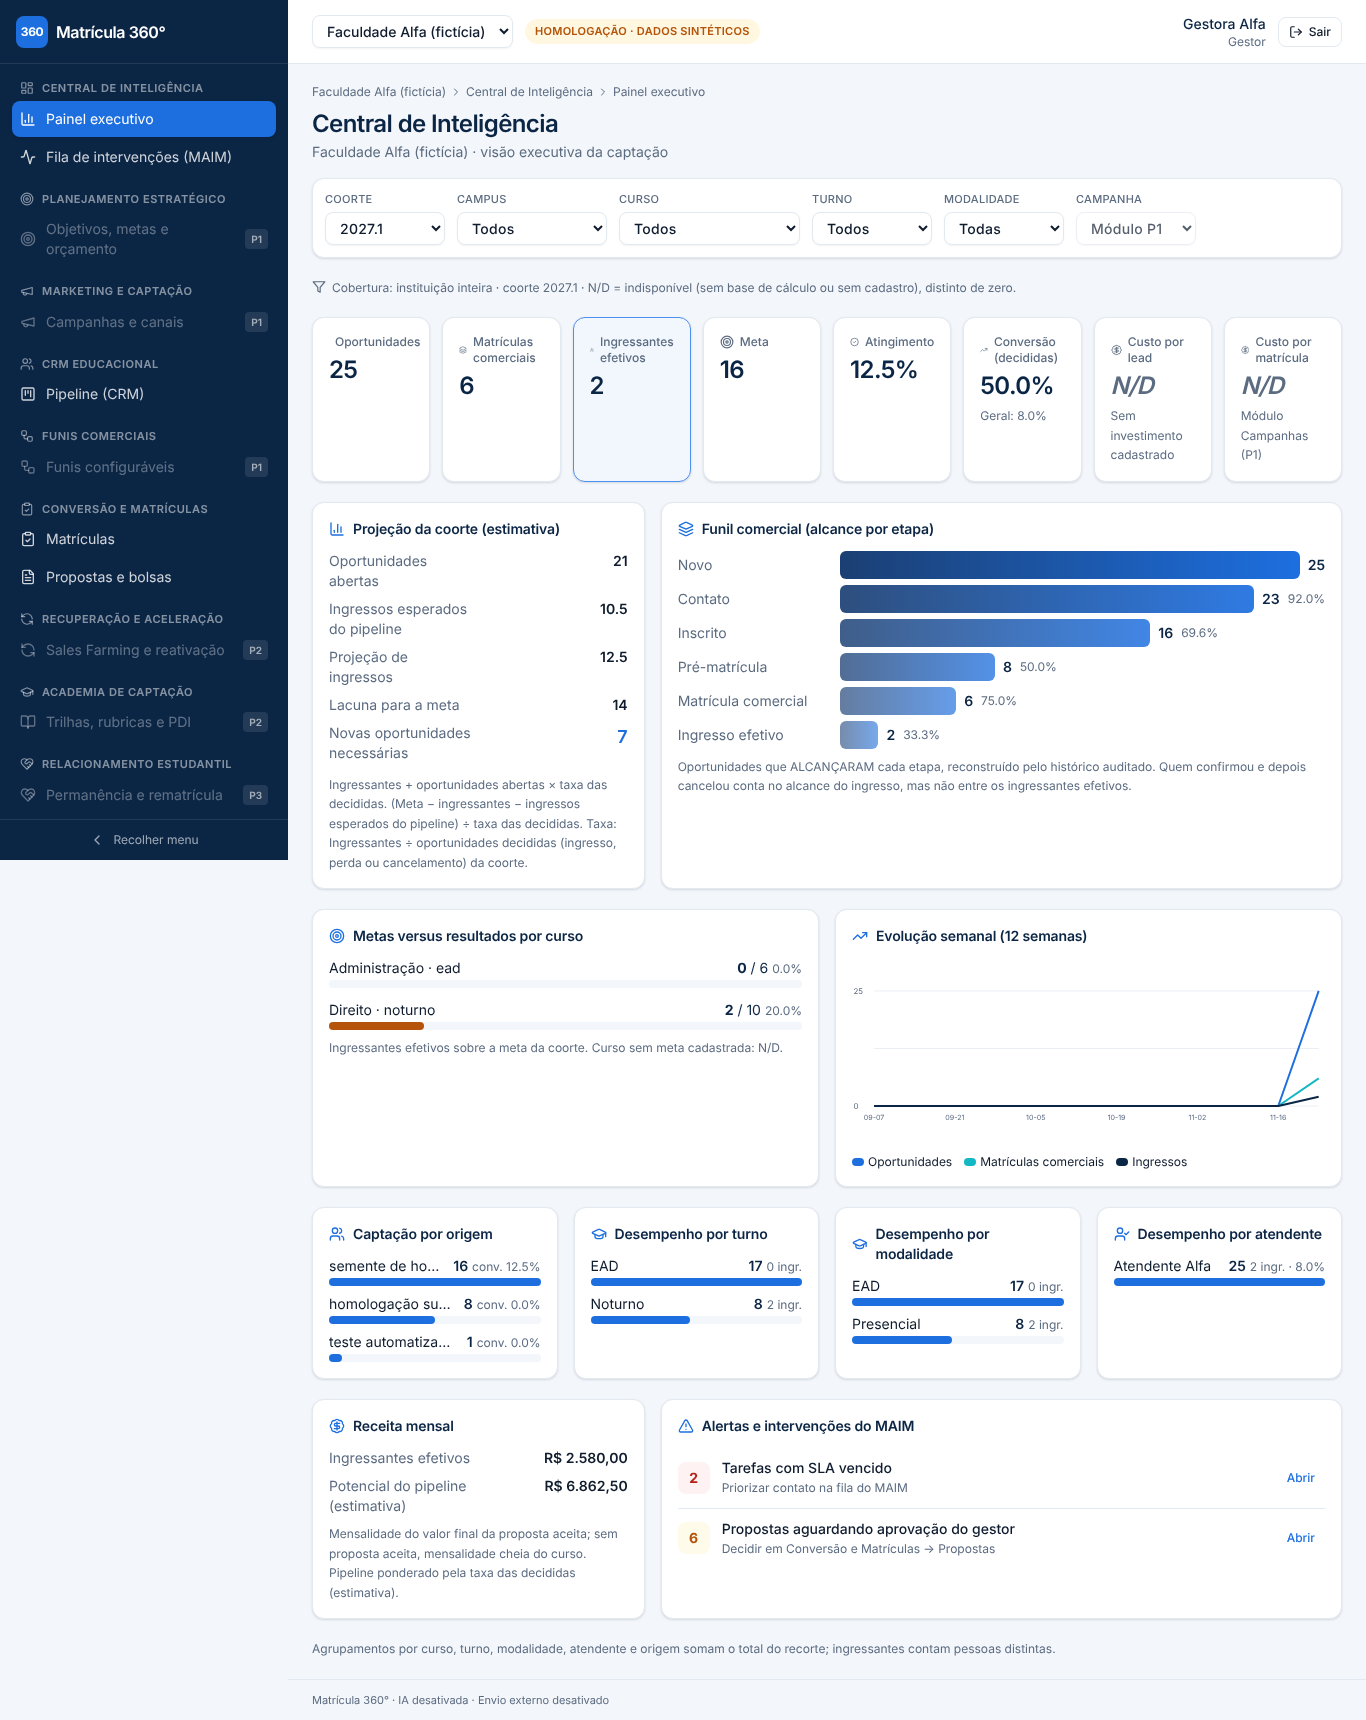
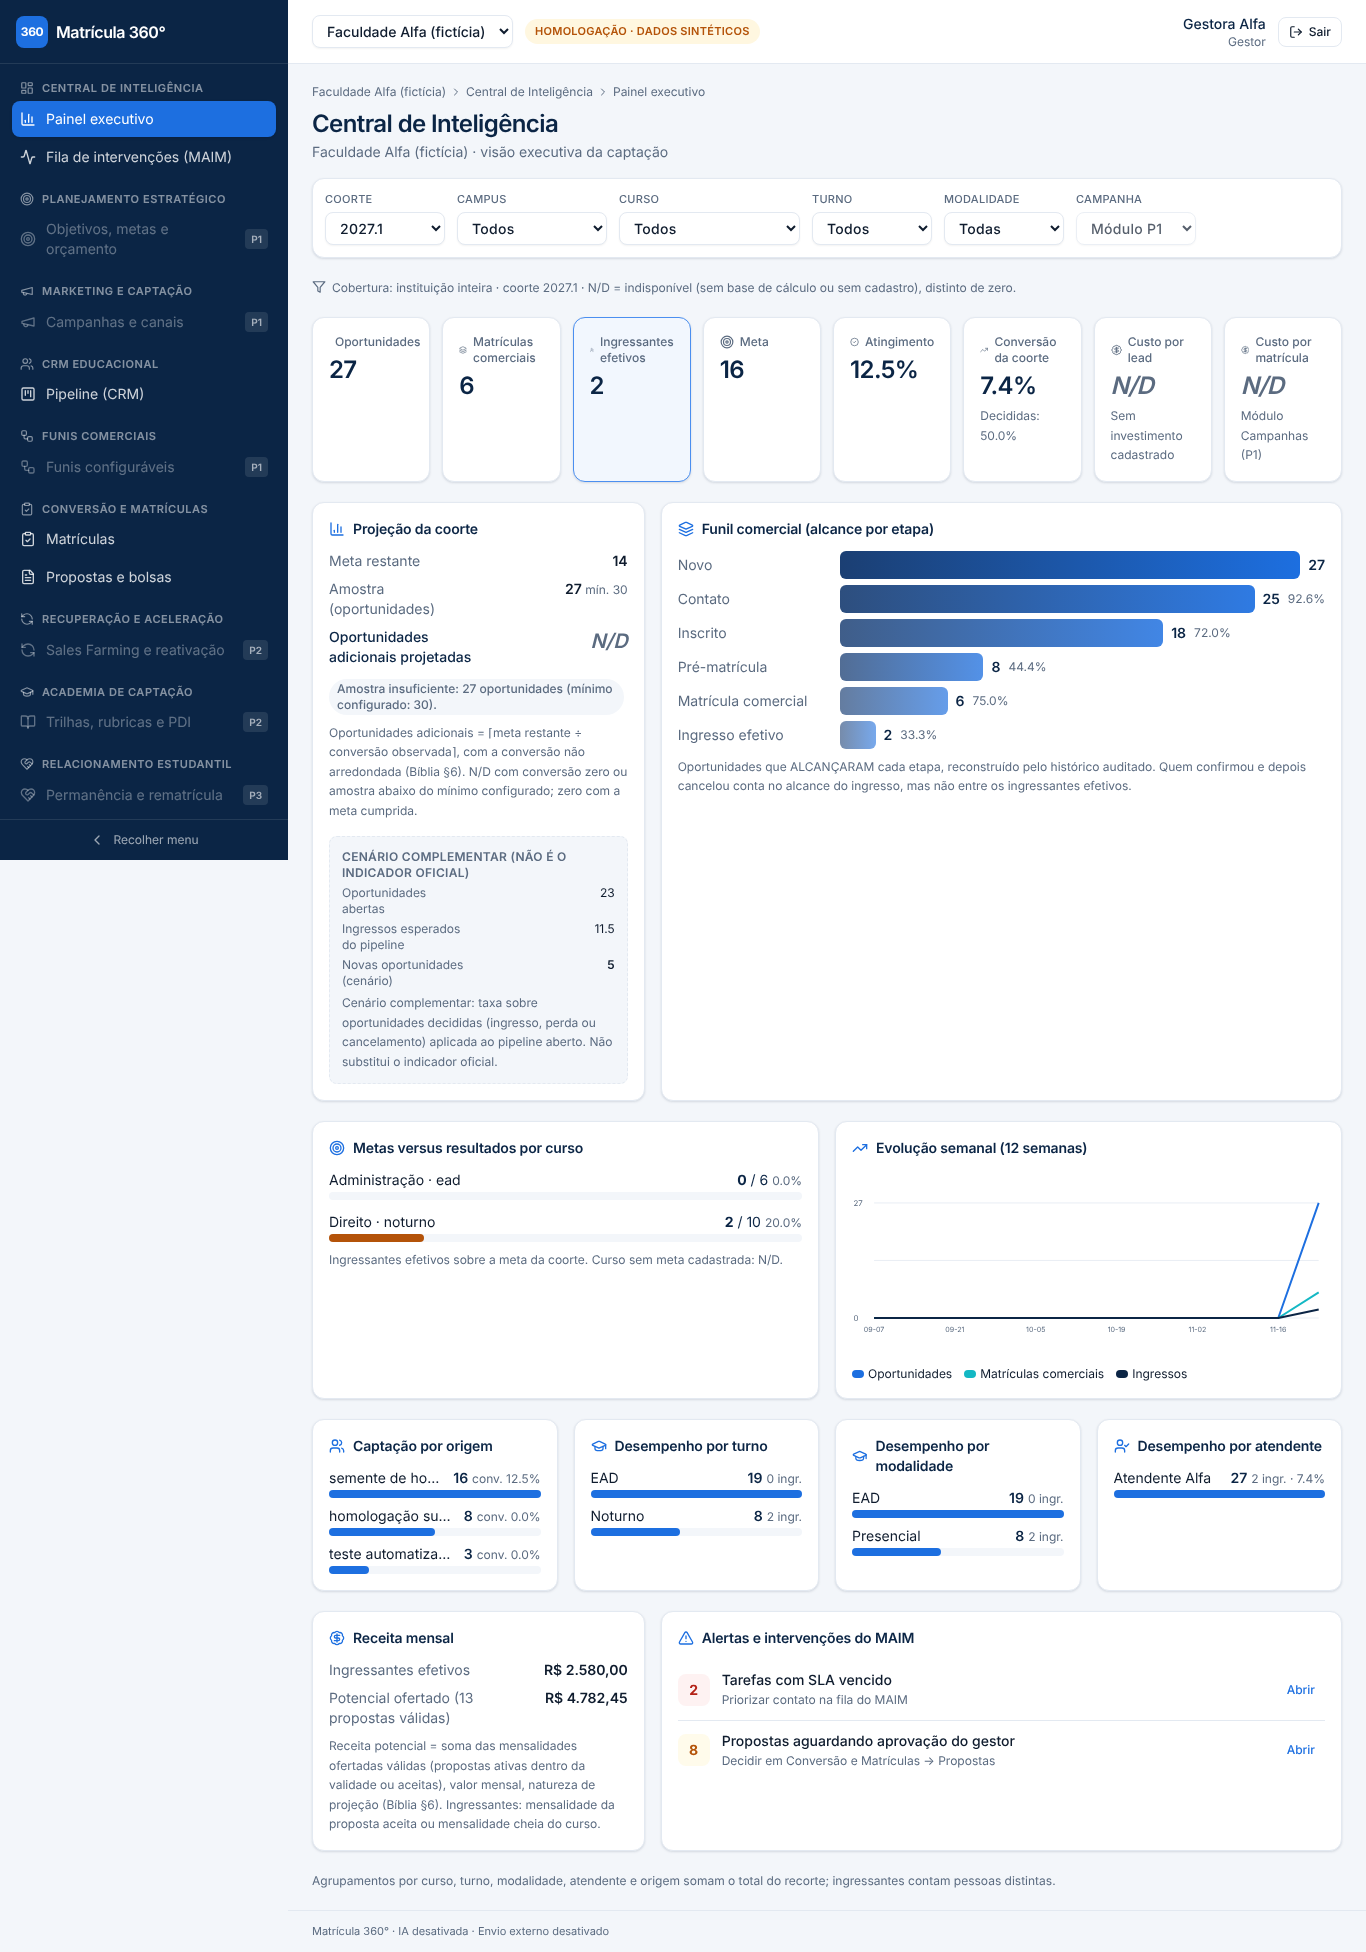
Registra homologação da migração 9 (Bíblia v0.2 §6) no banco real e no site
Claude-Session: https://claude.ai/code/session_01LuDyPyXt65cYhfcPrp74r2

diff --git a/matricula360/BIBLIA-MESTRA.md b/matricula360/BIBLIA-MESTRA.md
@@ -128,7 +128,7 @@ Estados conforme a seção 11: especificado → implementado → testado localme
 ### 13.1 Ambientes
 | ID | Estado | Evidência / pendência |
 |---|---|---|
-| E01 Central de Inteligência | **publicado (homologação)** | `rpc_central` (migração 8). Dashboard com filtros globais, funil por alcance, evolução semanal, origem, curso, turno, modalidade, atendente, receita, alertas e fila de intervenções. Navegador 83/83 no site publicado. **Divergência D1 em 13.4** |
+| E01 Central de Inteligência | **publicado (homologação), conforme §6 após a migração 9** | `rpc_central` (migração 8). Dashboard com filtros globais, funil por alcance, evolução semanal, origem, curso, turno, modalidade, atendente, receita, alertas e fila de intervenções. Navegador 83/83 no site publicado. **Divergência D1 em 13.4** |
 | E02 Planejamento Estratégico | especificado | Visível no menu como P1, desabilitado |
 | E03 Marketing e Captação | especificado | Idem; custo por lead e por matrícula N/D com motivo |
 | E04 CRM Educacional | **publicado (parcial)** | Kanban, ficha, importação deduplicada, histórico auditado, tarefas. **Pendentes (P0):** drag-and-drop validado, busca, timeline consolidada, objeções, agenda, score explicável, SLA no cartão, histórico de responsáveis, alerta de possível duplicidade |
@@ -142,7 +142,7 @@ Estados conforme a seção 11: especificado → implementado → testado localme
 |---|---|---|
 | R01 | reproduzido | Homônimos com e-mails distintos criados pelo roteiro E2E; deduplicação por identificador correta. Pendente: alerta de correspondência ambígua com revisão humana |
 | R02 | **homologado** | Até 4 propostas ativas por oportunidade → regra de proposta ativa única com substituição auditada; 5 → 0 no banco real |
-| R03 | **corrigido e testado localmente (migração 9)**; aguardando aplicação | 169 = artefato de precisão numérica (14 ÷ (2/24) truncado = 168,000…0067 → ceil 169). Pela fórmula desta Bíblia, com aritmética exata, o valor é 168 |
+| R03 | **homologado e publicado (migração 9)** | 169 = artefato de precisão numérica (14 ÷ (2/24) truncado = 168,000…0067 → ceil 169). Pela fórmula desta Bíblia, com aritmética exata, o valor é 168 |
 | R04 | **homologado** | 18/20 tarefas de primeiro contato inelegíveis → encerramento e bloqueio por etapa (gatilhos); 22 → 0 no banco real |
 | R05 | **homologado** | `rpc_metas`; a tela carrega as metas cadastradas (E2E: Direito = 10) |
 | R06 | reproduzido | Somas íntegras. A chave de curso concatena o turno, e "EAD" está cadastrado como turno. Pendente: separar curso, turno e modalidade na apresentação e revisar o domínio de turnos |
@@ -161,7 +161,7 @@ Estados conforme a seção 11: especificado → implementado → testado localme
 | Quality | parcial (alertas de pendência de validação) |
 | Score, Performance, Strategy, Recovery, Learning, Retention | especificados |
 
-### 13.4 Divergências — decididas em 25/11/2026 e implementadas na migração 9 (testado localmente: 184/184)
+### 13.4 Divergências — decididas em 25/11/2026; migração 9 aplicada, homologada e publicada (local 184/184; navegador no site publicado 83/83)
 - **D1:** indicador oficial pela §6 com aritmética exata (cenário R03 = 168). O método por pipeline aparece como "cenário complementar", identificado. Amostra mínima **configurável por IES, padrão 30**: abaixo dela, N/D com motivo.
 - **D2:** receita potencial = soma das mensalidades ofertadas válidas.
 - **D3:** conversão de destaque = ingressantes ÷ oportunidades da coorte.

diff --git a/matricula360/docs/HOMOLOGACAO-PILOTO.md b/matricula360/docs/HOMOLOGACAO-PILOTO.md
@@ -172,6 +172,22 @@ Ajustes do roteiro nesta rodada (nenhum de produto):
 
 **Dados de teste visíveis na homologação:** 9 oportunidades criadas por roteiros, identificáveis pela origem ("homologação supabase", "teste automatizado (E2E)"). Não são removidas, porque a plataforma não apaga registros.
 
+## Conformidade com a Bíblia v0.2 §6 — migração 9 (25/11/2026)
+Aplicada pelo usuário no projeto de homologação. Conferência no banco real (gestor da Alfa, coorte 2027.1):
+
+| Item | Valor |
+|---|---|
+| Conversão da coorte | 0,0741 (2/27) |
+| Meta restante | 14 |
+| Amostra | 27, mínimo 30 |
+| Oportunidades adicionais projetadas (oficial) | N/D, com o motivo "Amostra insuficiente: 27 oportunidades (mínimo configurado: 30)" |
+| Cenário complementar | Identificado; 5 novas oportunidades pelo pipeline |
+| Receita potencial ofertada | R$ 4.782,45 (13 propostas válidas) |
+
+Comercial tentando alterar a amostra mínima: 403. Cenário R03 reproduzido localmente: 168 (antes, 169, por artefato de precisão).
+
+Navegador no site publicado: 83/83. O build publicado é idêntico ao do repositório.
+
 ## Critérios de aceite da Bíblia-Mestra
 
 | Critério | Onde está provado |
